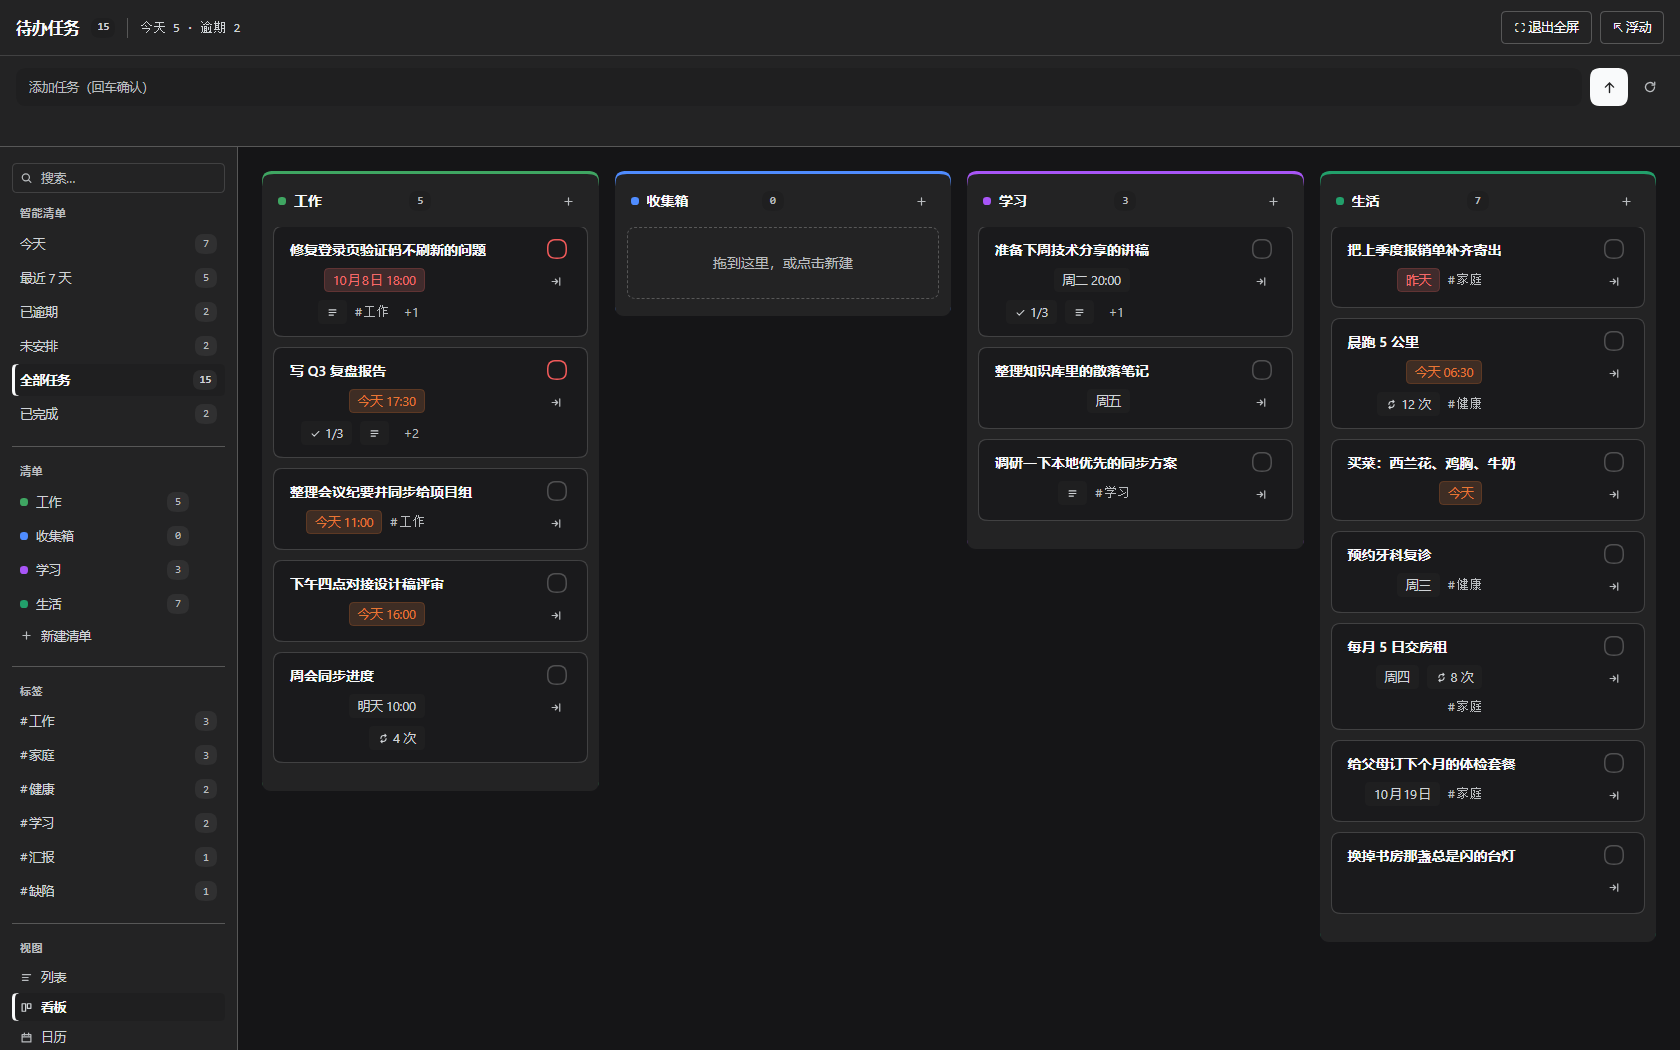
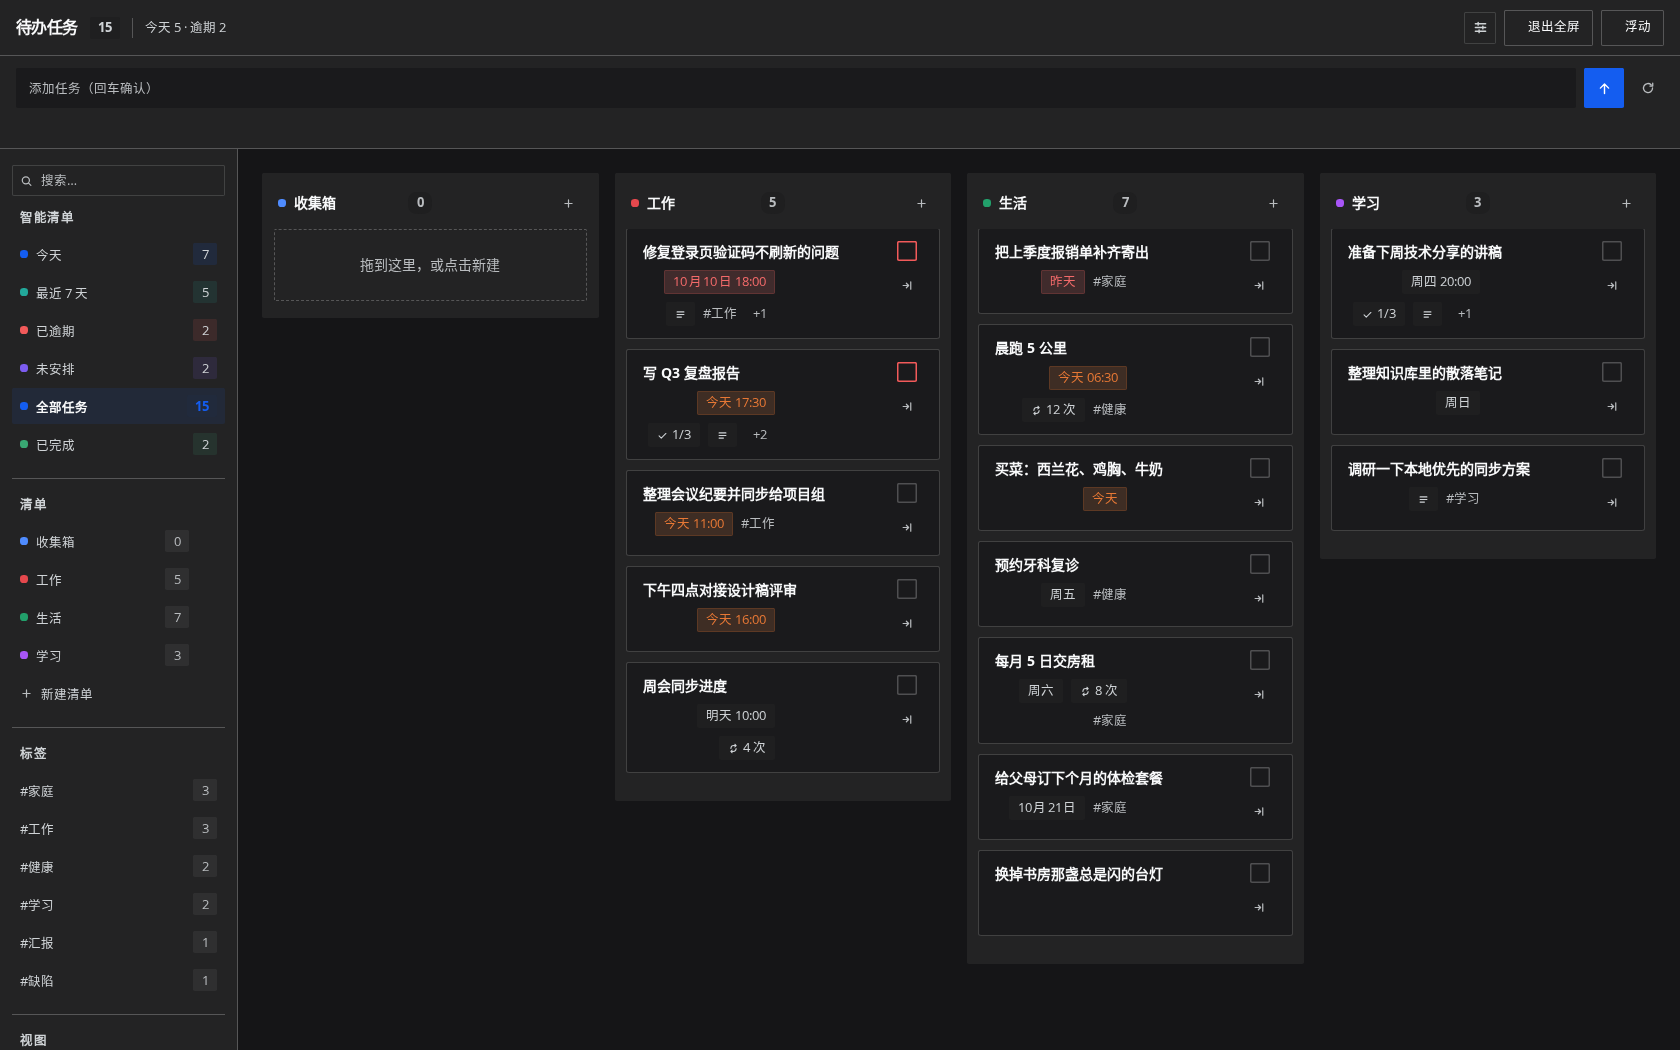
docs: refresh README screenshots and bump to 0.4.22

diff --git a/README.md b/README.md
@@ -63,7 +63,9 @@
 
 ### 界面
 
-![列表视图](docs/images/panel-list.png)
+以下截图来自真实运行中的 DSH Web 插件界面，使用同一份示例任务数据；默认展示「简洁扁平」风格。
+
+![简洁扁平 · 列表视图](docs/images/panel-list.png)
 
 | 看板 | 日历 |
 | --- | --- |
@@ -73,13 +75,17 @@
 | --- | --- |
 | ![甘特图](docs/images/gantt.png) | ![任务详情](docs/images/dialog.png) |
 
+| 风格切换 | 杂志编辑 |
+| --- | --- |
+| ![界面风格选择](docs/images/appearance.png) | ![杂志编辑 · 列表视图](docs/images/editorial-list.png) |
+
 | 深色列表 | 深色看板 | 深色任务详情 |
 | --- | --- | --- |
 | ![深色列表](docs/images/list-dark.png) | ![深色看板](docs/images/board-dark.png) | ![深色任务详情](docs/images/dialog-dark.png) |
 
-#### 界面风格（v0.4.21）
+#### 界面风格（v0.4.22）
 
-面板标题右侧的「界面风格设置」可以即时切换，两种风格都会自动保存在本机；也可以在「设置 → 待办任务」里编辑。默认是「简洁扁平」。版本号按 `x.y.zz` 递增，本版为 `0.4.21`。
+面板标题右侧的「界面风格设置」可以即时切换，两种风格都会自动保存在本机；也可以在「设置 → 待办任务」里编辑。默认是「简洁扁平」。版本号按 `x.y.zz` 递增，本版为 `0.4.22`。
 
 - **简洁扁平**：黑白与中性灰打底，鲜明蓝 `#145df0` 用于主操作、选中与聚焦；压低圆角、减掉阴影，侧栏选中项不再加左边框。沿用现有任务布局。
 - **杂志编辑**：深色侧栏、蓝灰强调色 `#496f89`、衬线标题与细分隔线；保留编辑式层级，但不加装饰性大标题或统计展板，常用视图、搜索和任务操作仍在手边。
